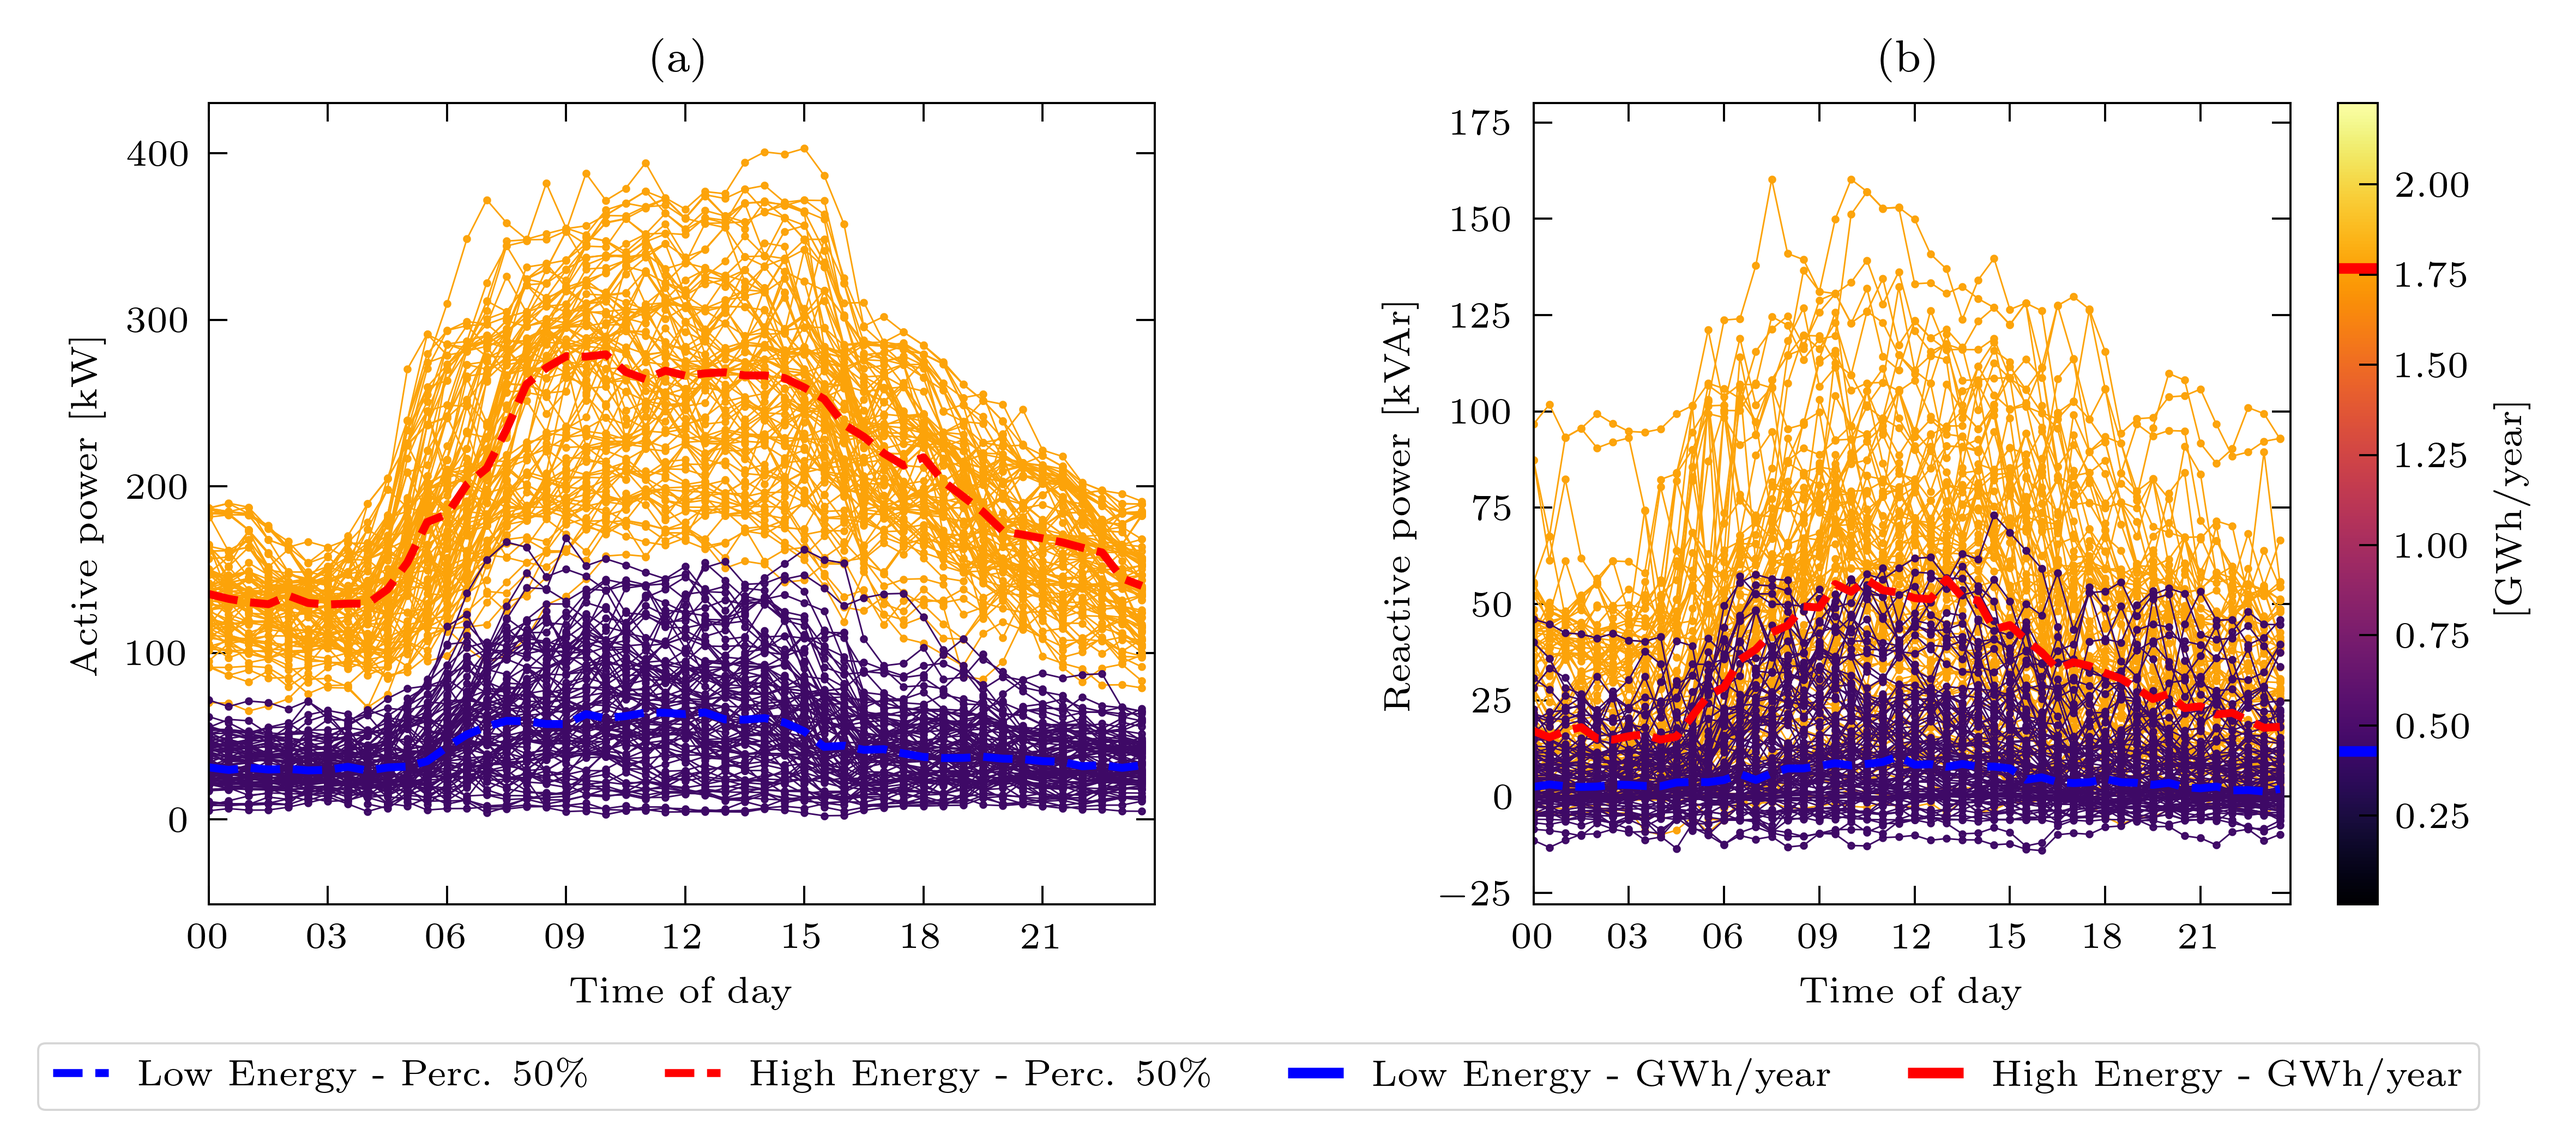
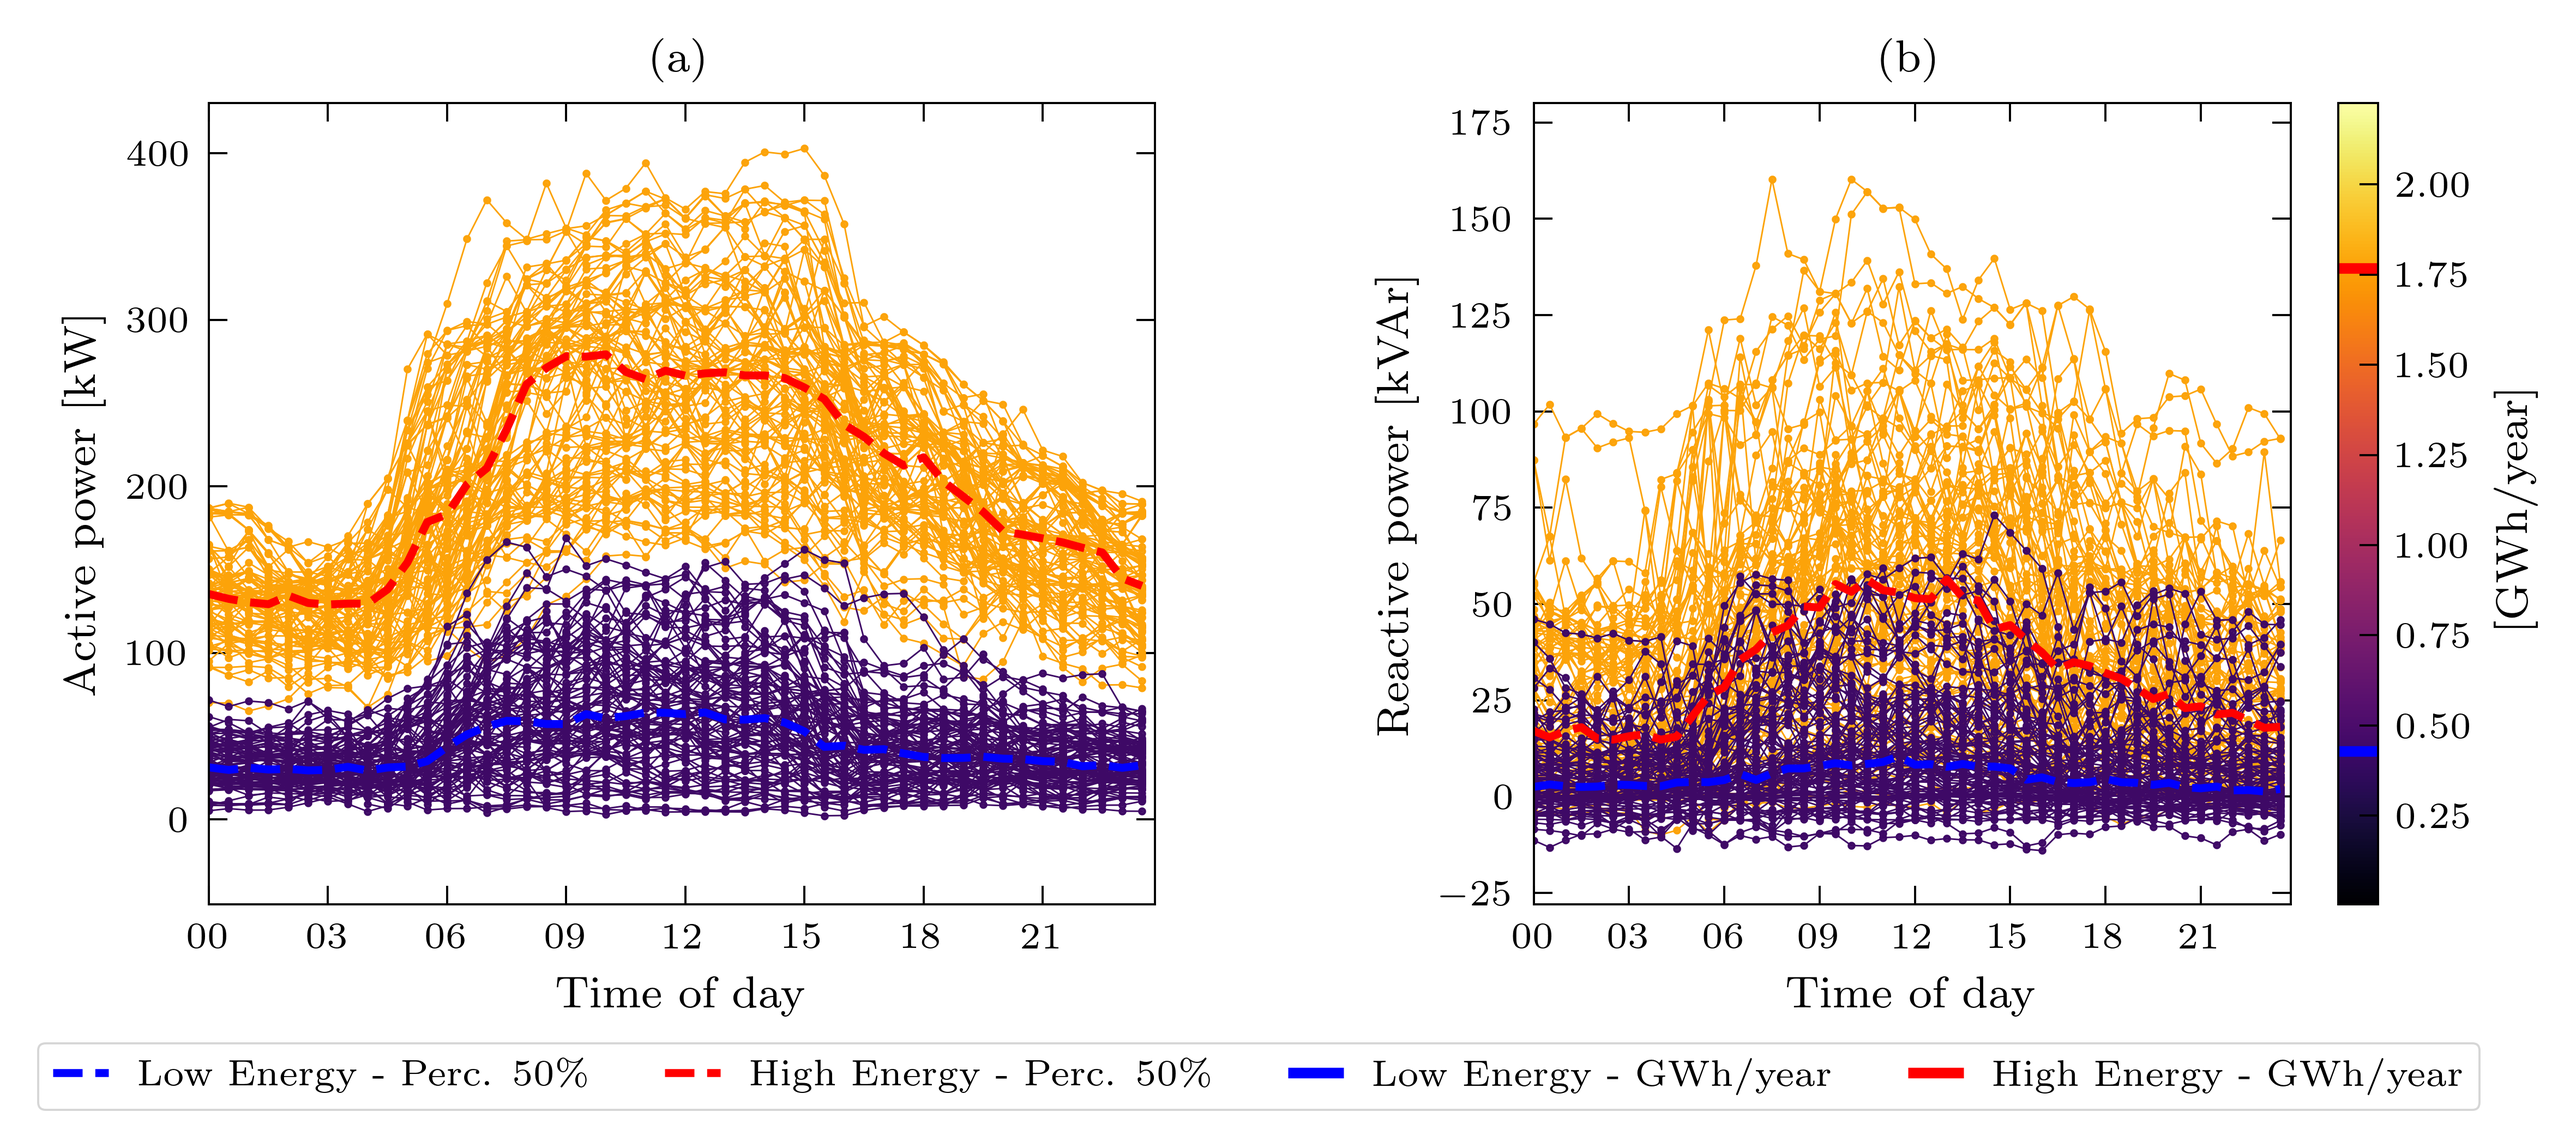
Add figure of clustering metrics and table

diff --git a/figures/figure_clustering_results.py b/figures/figure_clustering_results.py
@@ -1,0 +1,112 @@
+"""
+Script is a copy of the clustering_load_profiles.py.
+This script has the purpose of create the plots for the journal
+"""
+
+from core.clustering import (ClusteringRLP,
+                             rlp_transformer,
+                             load_time_series)
+import pandas as pd
+from sklearn import  metrics
+import numpy as np
+from itertools import cycle, islice
+import matplotlib.pyplot as plt
+
+file_name=r"../data/processed_data/consumption_weather/time_series_data.csv"
+file_path_outliers = r"../data/processed_data/consumption_weather/outlier_transformers.csv"
+
+data = load_time_series(file_name, file_path_outliers=file_path_outliers)
+ap = rlp_transformer(data, kwargs_filter= {"regex": "_ap$"})
+
+#%% Clustering
+cluster_ap = ClusteringRLP()
+cluster_ap.cluster_dataset(ap, plot_solutions=True, init=2, end=15)
+score_values_ap = cluster_ap.get_clustering_scores()
+ap_cluster_solutions = cluster_ap.get_cluster_labels()
+print(pd.DataFrame(ap_cluster_solutions[3]["GMM"]).value_counts())
+
+#%% Print clustering solutions
+N_CLUSTER = 3
+algorithms = set(ap_cluster_solutions[N_CLUSTER].index)
+for algo in algorithms:
+    y_labels = ap_cluster_solutions[N_CLUSTER][algo]
+    fig, axes = plt.subplots(2, 2, figsize=(4, 4))
+    plt.subplots_adjust(bottom=0.2, hspace = 0.3)
+    for cluster, ax in zip(range(N_CLUSTER), axes.flatten()):
+        ax.plot(ap.iloc[(y_labels == cluster), :].values.T, linewidth=0.3)
+        ax.set_title(f'Cluster: {cluster} - Count: {np.sum((y_labels == cluster))}')
+    plt.suptitle(f"Algorithm: {algo}")
+
+#%% Reconfigure the mapping of cluster labels according to Spectral algorithm
+algo_mapping = {}
+algo_mapping["Spectral"] = {0: 0, 1: 1, 2: 2}
+algo_mapping["Birch"] = {0: 1, 1: 0, 2: 2}
+algo_mapping["GMM"] = {0: 2, 1: 0, 2: 1}
+algo_mapping["HC(Ward)"] = {0: 1, 1: 2, 2: 0}
+algo_mapping["KMeans"] = {0: 0, 1: 1, 2: 2}
+algo_mapping["Kmedoids"] = {0: 1, 1: 2, 2: 0}
+
+#%%
+score_values_list = ["CDI", "MDI", "DBI", "CHI", "SI"]
+title_list = {"CDI": "Clustering dispersion indicator  (Low-Good)",
+              "MDI": "Modified Dunn Index  (Low-Good)",
+              "DBI": "Davies-Bouldin Index (Low-Good)",
+              "CHI": "Calinski-Habarasz  (High-Good)",
+              "SI": "Silohuette Index" }
+
+clustering_algorithms = ap_cluster_solutions.shape[0]
+markers_cycle = list(islice(cycle(['.', ',', 'o', 'v', '^', '<', '>', '1', '2', '8', 's', 'p', 'P']),
+                            clustering_algorithms))
+
+#%%
+fig, axs = plt.subplots(3, 2, figsize=(4, 8))
+plt.subplots_adjust(bottom=0.05, hspace = 0.4, top=0.95, wspace=0.4)
+
+ax = axs.flatten()
+for ii, score_ in enumerate(score_values_list):
+    for (index, value), marker in zip(score_values_ap[score_].iterrows(), markers_cycle):
+        value.plot.line(linewidth=0.4, label=index, marker=marker, ax=ax[ii])
+    ax[ii].set_title(title_list[score_])
+    ax[ii].set_xticks(np.array(ap_cluster_solutions.columns))
+    if ii ==4:
+        ax[ii].legend()
+
+ranked_scores_cluster_three = pd.concat([score_values_ap[key_][[3]].rename(columns={3: key_}) for key_ in score_values_ap], axis=1)
+ranked_scores_cluster_three_filtered = ranked_scores_cluster_three[["DBI", "MDI", "CHI", "SI"]]
+print("Scores for cluster 3")
+print(ranked_scores_cluster_three_filtered.sort_values(by=["DBI", "MDI"]))
+
+#%% Adjusted rand score to check the similarity between the clustering results. Reference is the Spectral clustering:
+y_real = ap_cluster_solutions[N_CLUSTER]["Spectral"]
+rand_scores = {}
+for algo in algorithms:
+    y_pred = ap_cluster_solutions[N_CLUSTER][algo]
+    y_pred = [algo_mapping[algo][y_value] for y_value in y_pred]
+    rand_scores[algo] = np.round(metrics.adjusted_rand_score(y_real, y_pred), 3)
+rand_indexes = pd.DataFrame.from_dict(rand_scores, orient="index", columns=["RI"]).sort_values(by="RI", ascending=False)
+print(rand_indexes)
+#%% Count the number of transformers
+name_mapping_ = {0: "C1", 1: "C2", 2: "C3"}
+
+cluster_count = []
+for algo in algorithms:
+    aa = pd.DataFrame(ap_cluster_solutions[N_CLUSTER][algo], columns=[algo])
+    aa = aa.value_counts().to_frame(name="cluster_count").sort_index()
+    aa = aa.reset_index().rename(columns={algo: "cluster"})
+
+    # aa["cluster"] = aa["cluster"].map(algo_mapping[algo])
+
+    aa["cluster"] = aa["cluster"].map(name_mapping_)
+    aa = aa.set_index("cluster")
+    aa = aa.transpose().rename({"cluster_count": algo})
+    cluster_count.append(aa)
+
+cluster_count = pd.concat(cluster_count, axis=0)
+cluster_count = cluster_count[["C1", "C2", "C3"]]
+
+#%% Merge all the table
+table = pd.concat([ranked_scores_cluster_three_filtered.round(3), rand_indexes.round(3), cluster_count], axis=1)
+table = table.sort_values(by=["DBI", "MDI"])
+table.to_csv("load_model/clustering_metrics.csv")
+print(table)
+

diff --git a/figures/figures_load_modelling.py b/figures/figures_load_modelling.py
@@ -347,16 +347,16 @@ for ii, regex_dict in zip(range(2), filter_dict):
 
     if ii == 0:
         ax[ii].set_ylim((-51, 430))
-        ax[ii].set_ylabel("Active power [kW]")
+        ax[ii].set_ylabel("Active power [kW]", fontsize="large")
 
     if ii == 1:
         cbar_2 = plt.colorbar(plt.cm.ScalarMappable(norm=norm_individual, cmap=plt.cm.get_cmap('inferno')),
                               ax=ax[ii])
-        cbar_2.ax.set_ylabel('[GWh/year]')
+        cbar_2.ax.set_ylabel('[GWh/year]', fontsize="large")
         l3 = cbar_2.ax.hlines(y=0.429440, xmin=0, xmax=10, linewidth=2, color="blue", label="Low Energy - GWh/year")
         l4 = cbar_2.ax.hlines(y=1.767857, xmin=0, xmax=10, linewidth=2, color="red", label="High Energy - GWh/year")
 
-        ax[ii].set_ylabel("Reactive power [kVAr]")
+        ax[ii].set_ylabel("Reactive power [kVAr]", fontsize="large")
         ax[ii].set_ylim((-28, 180))
 
         lgs = l1 + l2 + [l3] + [l4]
@@ -370,6 +370,6 @@ for ii, regex_dict in zip(range(2), filter_dict):
                      handlelength=1.5)
 
     ax[ii].set_title(title_list[ii], fontsize="large")
-    ax[ii].set_xlabel("Time of day")
+    ax[ii].set_xlabel("Time of day", fontsize="large")
 
 plt.savefig('load_model/sampling_conditioned.png', dpi=700, bbox_inches='tight')

diff --git a/clustering_load_profiles.py b/clustering_load_profiles.py
@@ -17,10 +17,10 @@ ap = rlp_transformer(data, kwargs_filter= {"regex": "_ap$"})
 
 #%% Clustering
 cluster_ap = ClusteringRLP()
-cluster_ap.cluster_dataset(ap, plot_solutions=False)
+cluster_ap.cluster_dataset(ap, plot_solutions=False, init=2, end=15)
 score_values_ap = cluster_ap.get_clustering_scores()
 plot_scores(score_values_ap["CDI"],
-            score_values_ap["MDI"],
+            score_values_ap["SI"],
             score_values_ap["DBI"],
             score_values_ap["CHI"])
 
@@ -40,6 +40,6 @@ plotly_plot_solutions(ap_scaled_frame, algorithm_name=algorithm_name, n_cluster=
 #%% 1. create clustering results .csv file for transformers
 file_path_load_clustering = "data/processed_data/consumption_weather/clustering_load.csv"
 fixed_path = unique_filename(file_path_load_clustering)
-ap_frame['cluster'].to_csv(fixed_path, index=True)
+# ap_frame['cluster'].to_csv(fixed_path, index=True)
 
 
